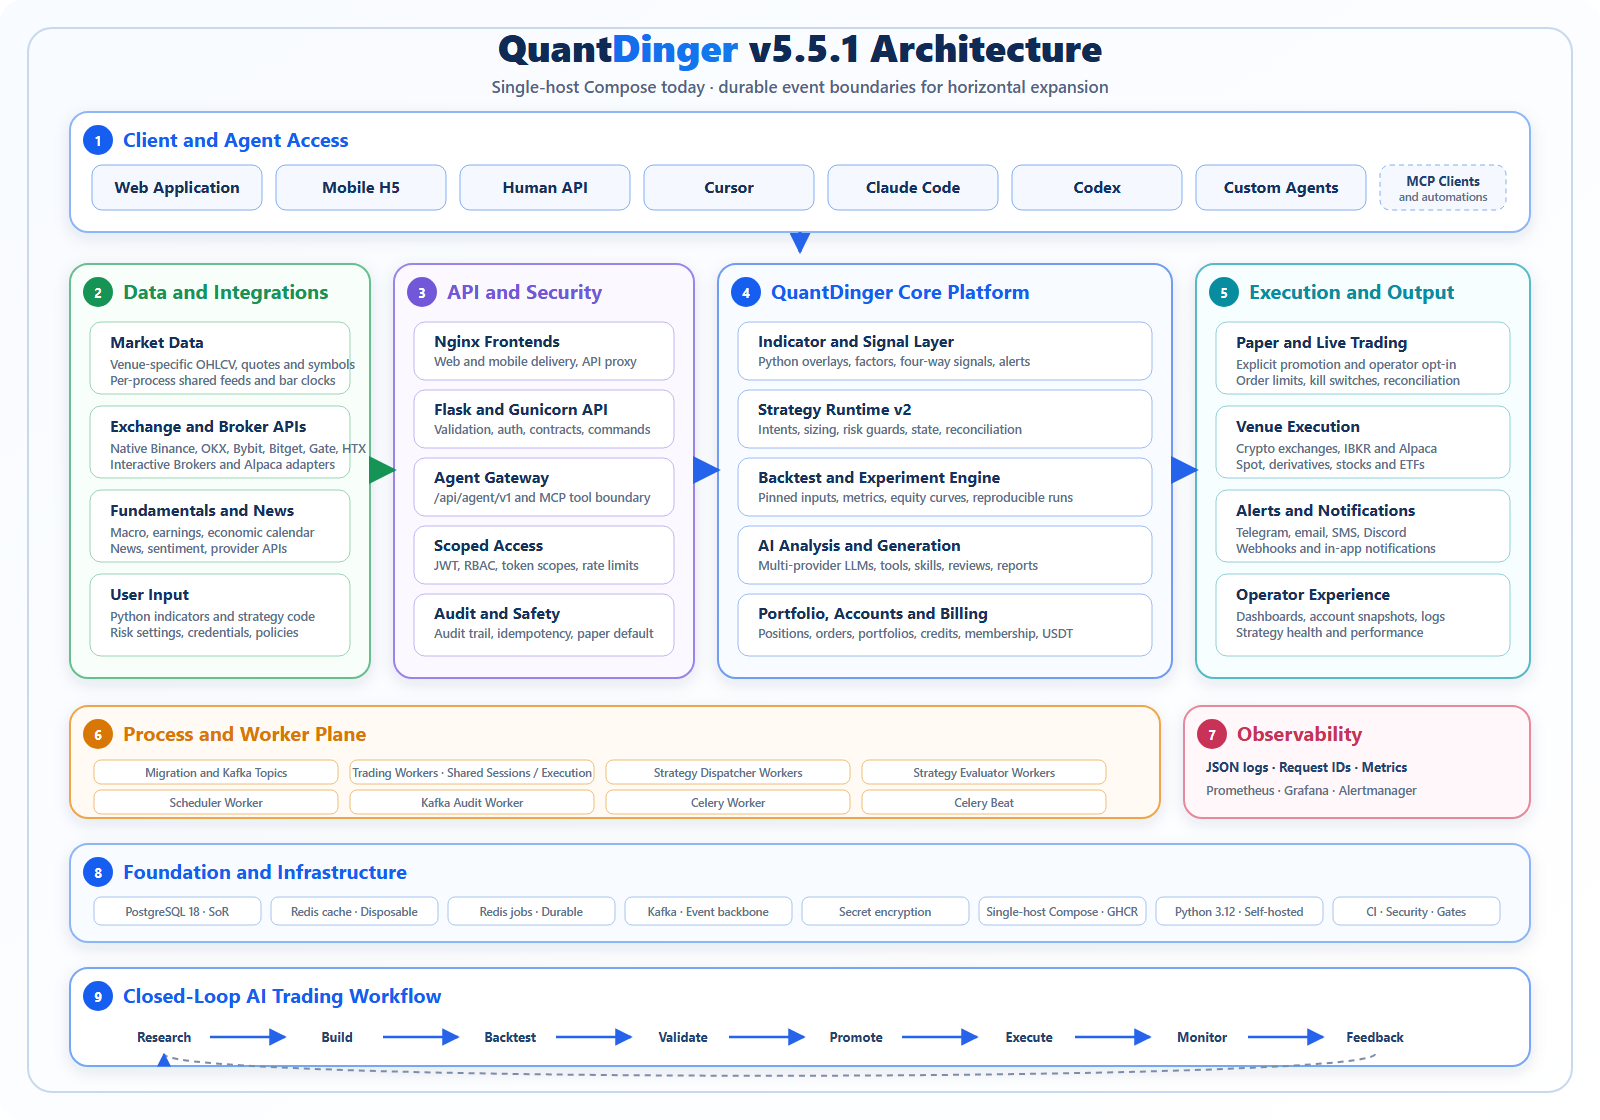
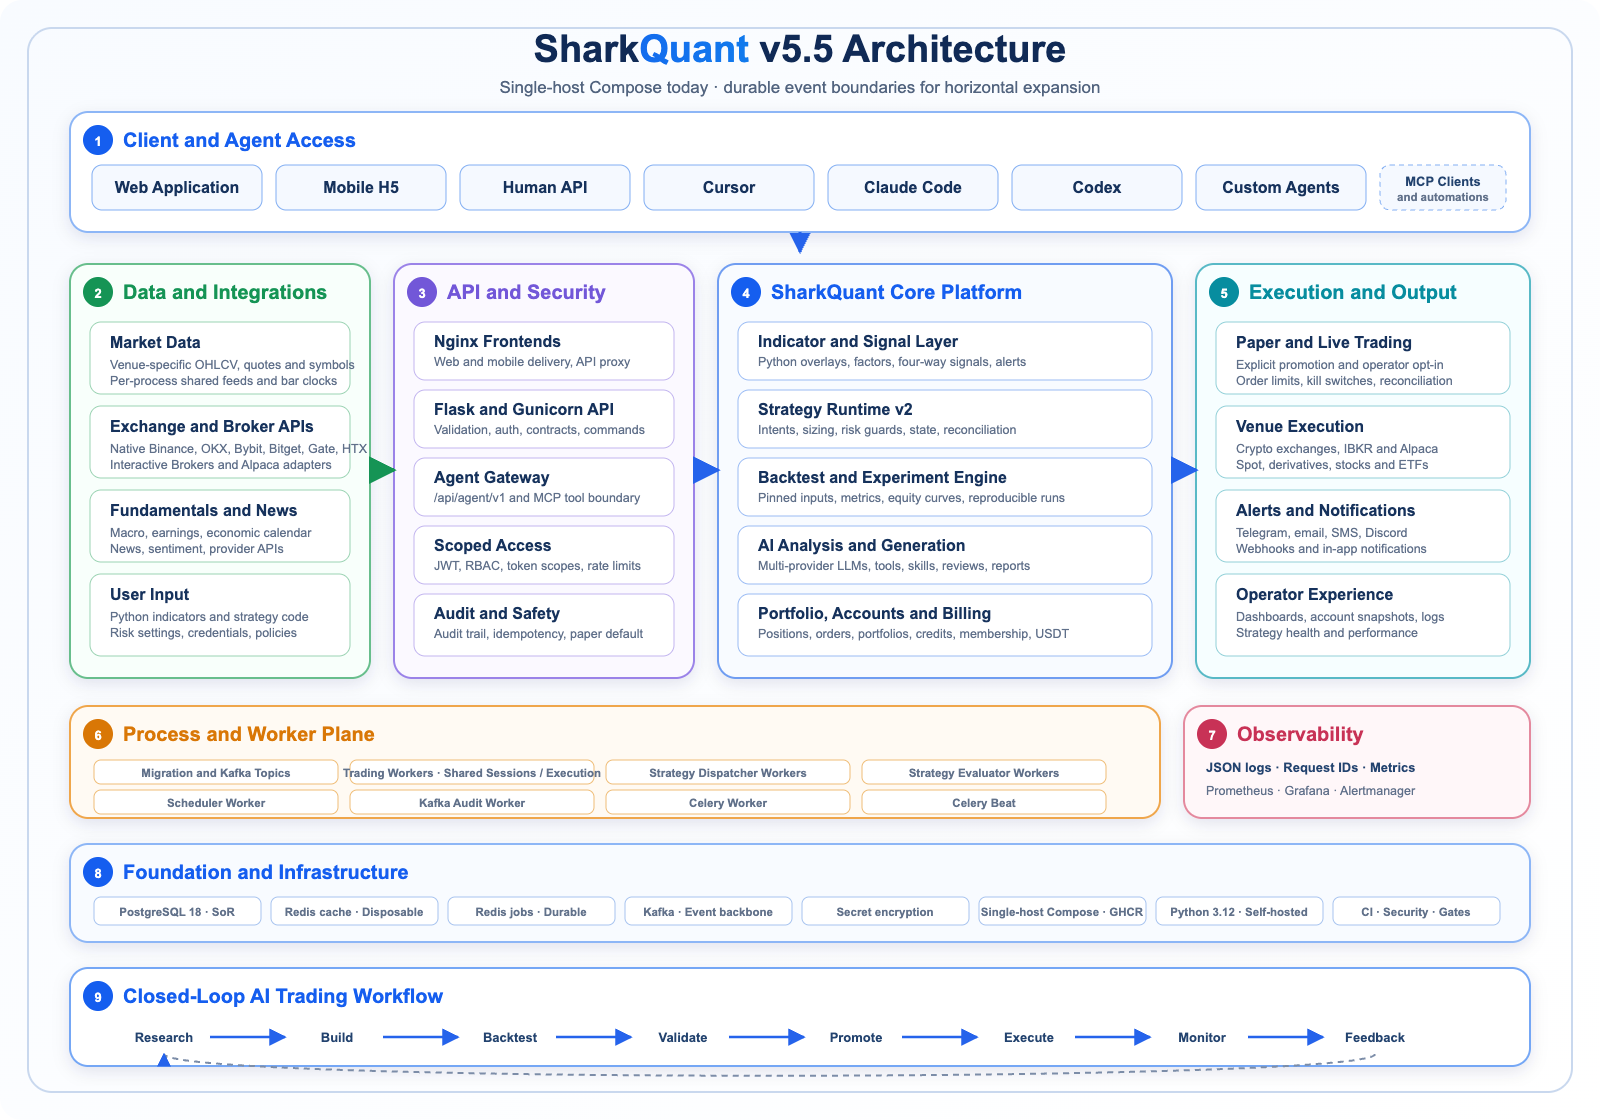
docs: finish rebranding the architecture diagram and API docs shell
- architecture-v5.svg: the visible title was split as Quant + tspan Dinger,
  so the earlier pass missed it; now it reads SharkQuant v5.5.
- Regenerate architecture-v5.png, which is the asset the README displays.
- Update the README image alt text.
- docs/api/index.html: title -> SharkQuant Web API.

diff --git a/docs/api/index.html b/docs/api/index.html
@@ -3,7 +3,7 @@
   <head>
     <meta charset="utf-8" />
     <meta name="viewport" content="width=device-width, initial-scale=1" />
-    <title>QuantDinger Web API</title>
+    <title>SharkQuant Web API</title>
     <style>
       body { margin: 0; padding: 0; }
     </style>

diff --git a/README.md b/README.md
@@ -140,7 +140,7 @@ same semantic version with a leading `v`, for example `v5.0.1`.
 ## Architecture
 
 <p align="center">
-  <img src="docs/screenshots/architecture-v5.png" alt="QuantDinger v5 architecture covering clients, Agent Gateway, core platform, distributed runtime workers, Kafka, infrastructure, observability, and the closed-loop trading workflow" width="100%">
+  <img src="docs/screenshots/architecture-v5.png" alt="SharkQuant v5 architecture covering clients, Agent Gateway, core platform, distributed runtime workers, Kafka, infrastructure, observability, and the closed-loop trading workflow" width="100%">
 </p>
 
 <p align="center"><sub>The editable source is <a href="docs/screenshots/architecture-v5.svg">architecture-v5.svg</a>; the Mermaid topology below is the detailed runtime source of truth.</sub></p>
